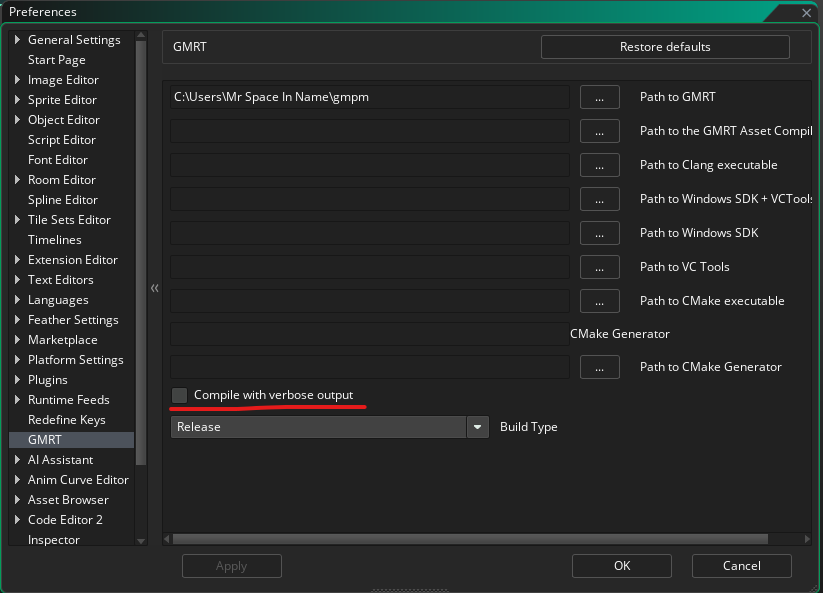
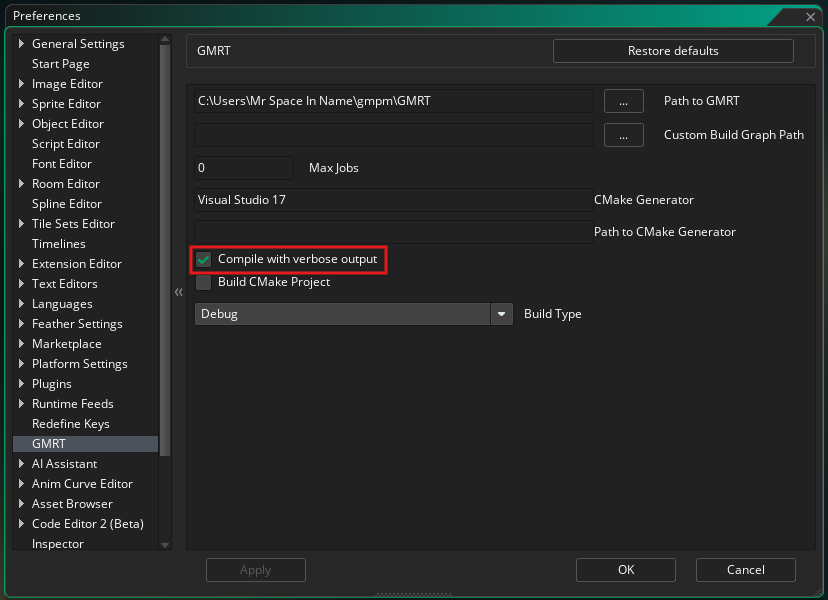
Updated documentation for GMRT 0.15.0

diff --git a/docs/introduction/GMRT-beta-intro-and-setup-instructions.md b/docs/introduction/GMRT-beta-intro-and-setup-instructions.md
@@ -268,11 +268,15 @@ It is already possible to compile and debug your game using Visual Studio, albei
   - **_Make sure you install the build tools for C++\
     **_![](15.png)_**_**
 
+- In the GMRT preferences window, check the "Build CMake Project". This will ensure that the CMake build job is executed for the selected build target.
+  For more information on build jobs, see the [Build Graph](Build-Graph.md) documentation
+
 - In the GMRT preferences window, enter “Visual Studio 17” as the generator in the “CMake Generator” input box\
   ![](16.png)\
-  This will tell GMRT to build your application using visual studio as opposed to the default.
+  This will tell GMRT to build your application using visual studio as opposed to the default
+  This can be set to any valid cmake generator. In some cases you may need to point CMake to the generator using the "Path to CMake Generator" property field 
 
-- Ensure you have Script Execution set to "Native"
+- You can build for CMake wither either GMRT or GMRT VM options, but GMRT is recommended if you want to debug you gml code within an external editor such as Visual Studio
 
 - Inside your project directory you will find a _"Build"_ folder has been added after building from within GameMaker
 
